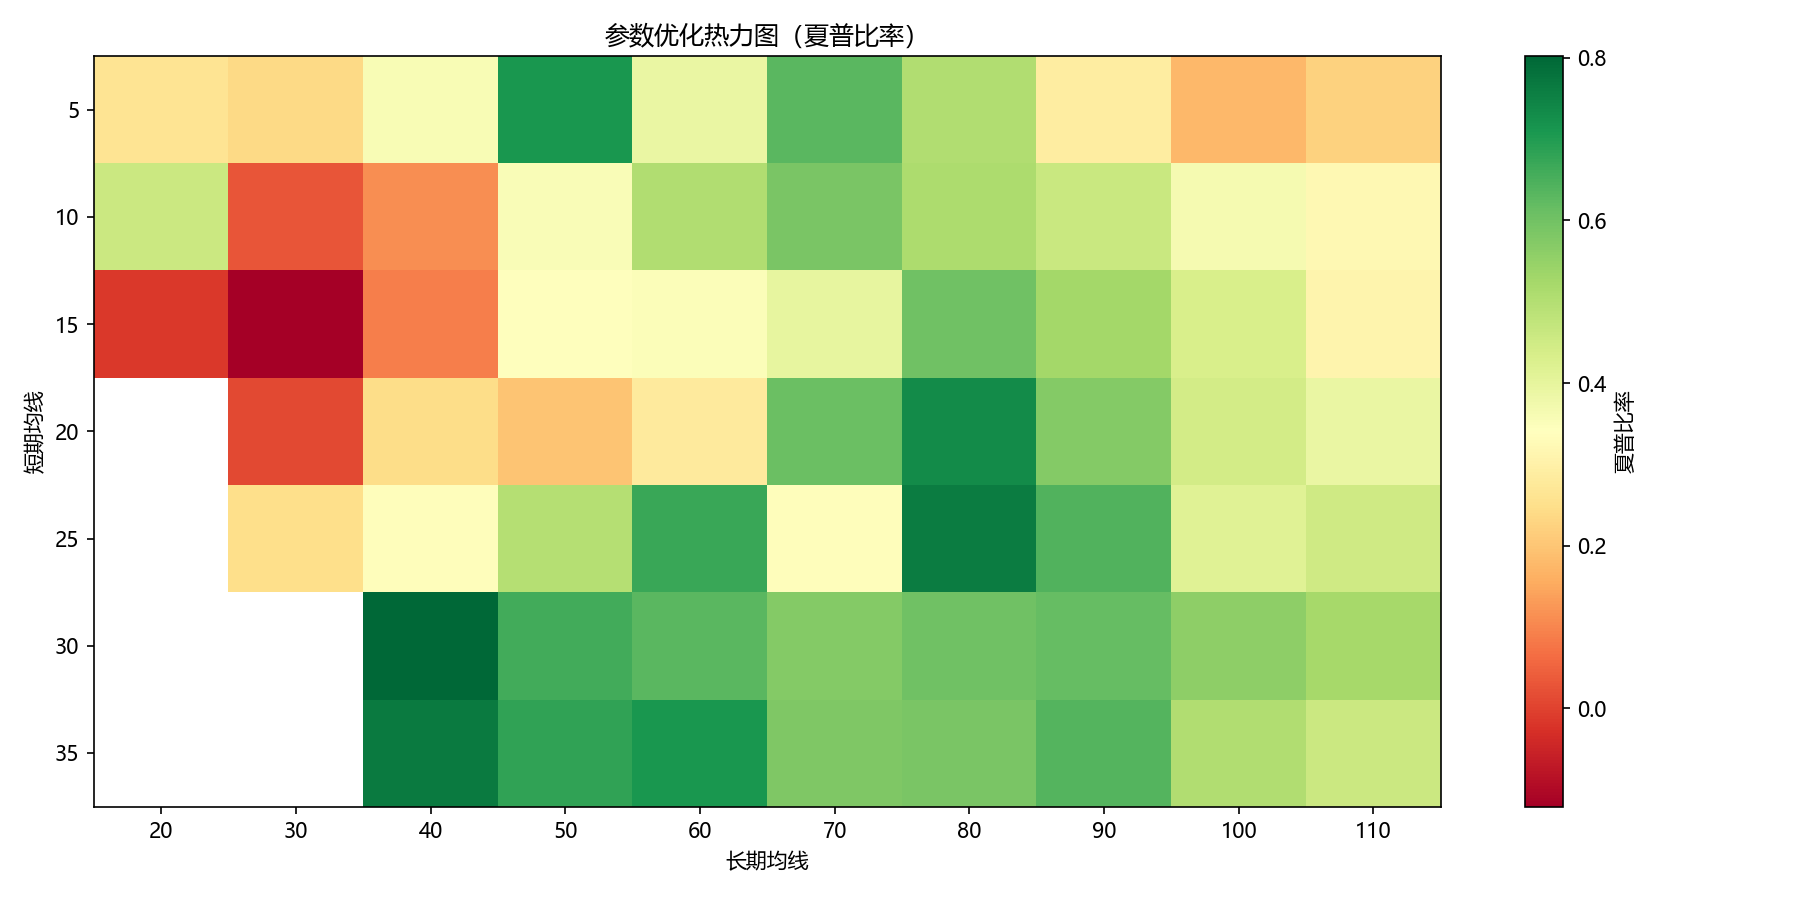
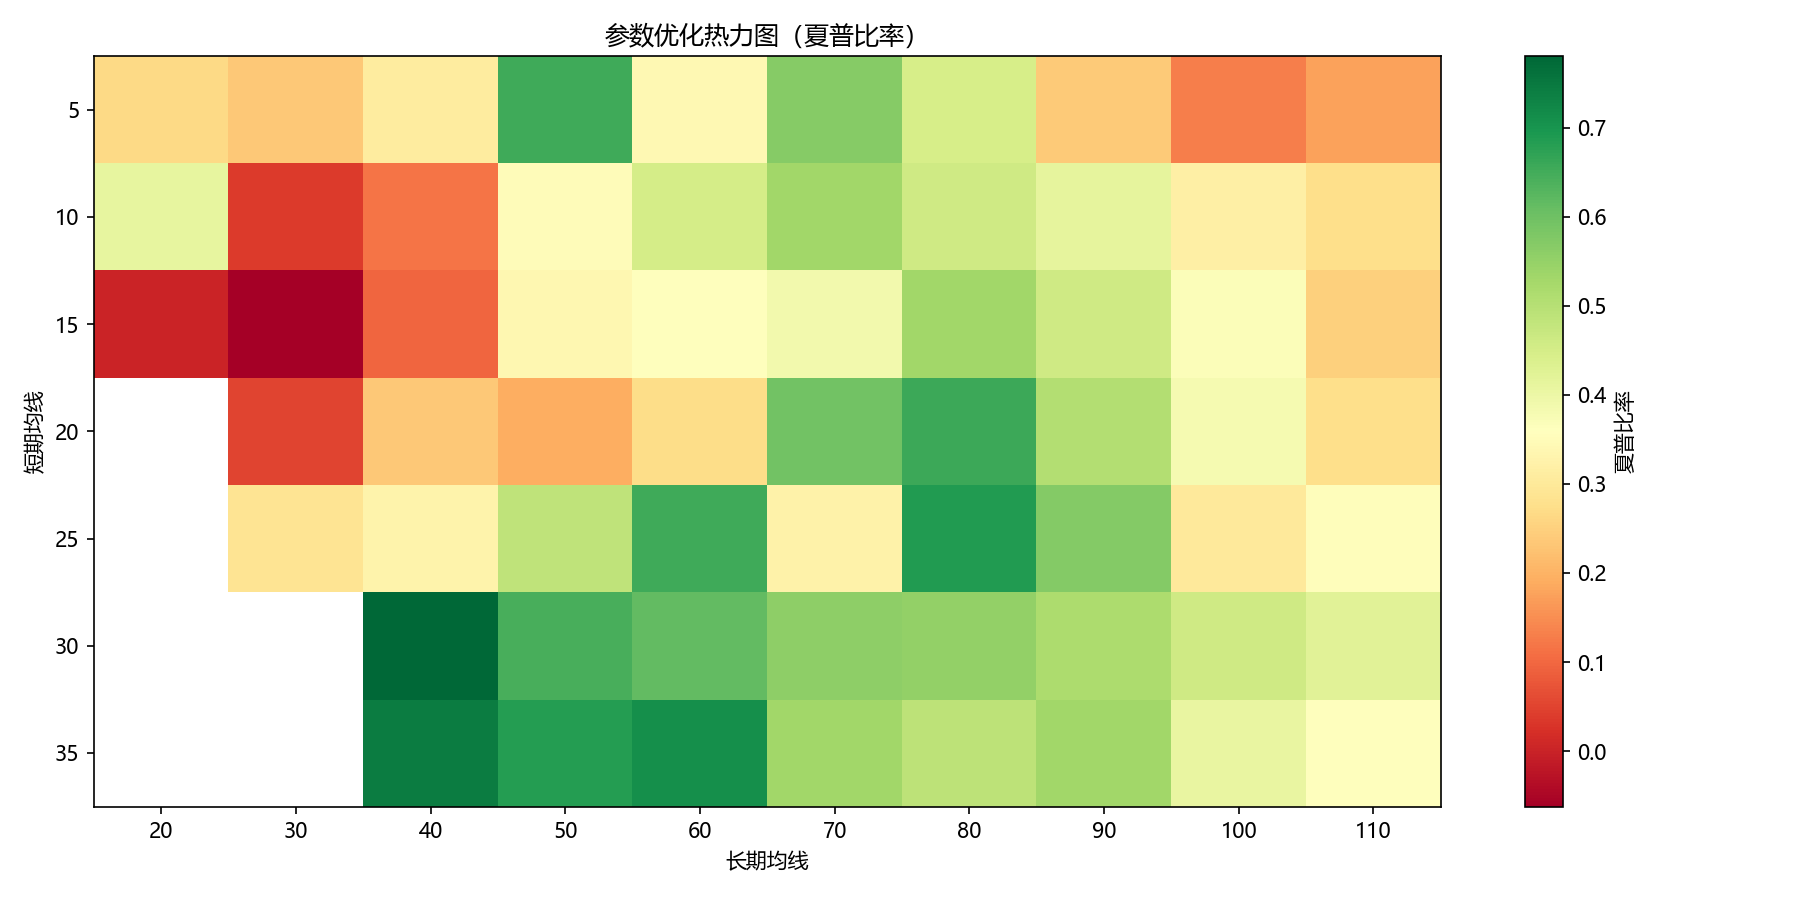
fix: correct position calculation and equity tracking in backtest scripts
- Use forward fill for position signals to maintain holdings between trades
- Fix equity curve calculation to include floating P&L during open positions
- Add matplotlib Agg backend for headless environments
- Configure yfinance cache location to avoid permission issues

diff --git a/step5_risk.py b/step5_risk.py
@@ -47,35 +47,41 @@ def backtest_with_risk(df):
         buy_signal  = row["SMA_30"] > row["SMA_40"] and row["RSI"] < 70
         sell_signal = row["SMA_30"] < row["SMA_40"] or row["RSI"] > 75
 
-        # 持仓中检查止损/止盈
+        # 计算当前包含浮动盈亏的净值
+        current_equity = capital
         if position == 1:
             pnl = (price - entry_price) / entry_price
+            current_equity = capital * (1 + pnl * position_size)
+
+        # 持仓中检查止损/止盈
+        if position == 1:
             if pnl <= -STOP_LOSS:
                 position = 0
-                capital *= (1 + pnl * position_size)
+                capital = current_equity
                 trades.append({"date": date, "type": "止损", "pnl": pnl})
             elif pnl >= TAKE_PROFIT:
                 position = 0
-                capital *= (1 + pnl * position_size)
+                capital = current_equity
                 trades.append({"date": date, "type": "止盈", "pnl": pnl})
             elif sell_signal:
                 position = 0
-                capital *= (1 + pnl * position_size)
+                capital = current_equity
                 trades.append({"date": date, "type": "信号平仓", "pnl": pnl})
 
         # 组合最大回撤保护
-        peak = max(peak, capital)
-        portfolio_dd = (capital - peak) / peak
+        peak = max(peak, current_equity)
+        portfolio_dd = (current_equity - peak) / peak
         if portfolio_dd <= -MAX_DRAWDOWN and position == 1:
             position = 0
-            trades.append({"date": date, "type": "回撤保护", "pnl": portfolio_dd})
+            capital = current_equity
+            trades.append({"date": date, "type": "回撤保护", "pnl": pnl})
 
         # 开仓
         if position == 0 and buy_signal:
             position   = 1
             entry_price= price
 
-        equity_curve.append(capital)
+        equity_curve.append(current_equity if position == 1 else capital)
 
     return pd.Series(equity_curve, index=df.index), pd.DataFrame(trades)
 

diff --git a/step4_optimize.py b/step4_optimize.py
@@ -1,10 +1,12 @@
 import yfinance as yf
+yf.set_tz_cache_location(".yf_cache")
 import pandas as pd
 import numpy as np
 from ta.trend import SMAIndicator, MACD
 from ta.momentum import RSIIndicator
-import matplotlib.pyplot as plt
 import matplotlib
+matplotlib.use('Agg')
+import matplotlib.pyplot as plt
 matplotlib.rcParams['font.family'] = 'Microsoft YaHei'
 
 # 获取数据
@@ -23,10 +25,13 @@ def backtest(close, short, long, rsi_buy=70, rsi_sell=75):
 
     df["Signal"] = 0
     df.loc[(df["SMA_short"] > df["SMA_long"]) & (df["RSI"] < rsi_buy),  "Signal"] = 1
-    df.loc[(df["SMA_short"] < df["SMA_long"]) | (df["RSI"] > rsi_sell), "Signal"] = 0
+    df.loc[(df["SMA_short"] < df["SMA_long"]) | (df["RSI"] > rsi_sell), "Signal"] = -1
+    
+    # 向前填充持仓状态，1为多头，-1为空仓信号（替换为0）
+    df["Position"] = df["Signal"].replace(0, np.nan).ffill().fillna(0).replace(-1, 0)
 
     df["Return"]   = df["Close"].pct_change()
-    df["Strategy"] = df["Signal"].shift(1) * df["Return"]
+    df["Strategy"] = df["Position"].shift(1) * df["Return"]
 
     cum = (1 + df["Strategy"]).cumprod()
     total_return = cum.iloc[-1] - 1

diff --git a/step3_backtest.py b/step3_backtest.py
@@ -1,11 +1,13 @@
 import yfinance as yf
+yf.set_tz_cache_location(".yf_cache")
 import pandas as pd
 import numpy as np
 from ta.trend import SMAIndicator, MACD
 from ta.momentum import RSIIndicator
 from ta.volatility import BollingerBands
-import matplotlib.pyplot as plt
 import matplotlib
+matplotlib.use('Agg')
+import matplotlib.pyplot as plt
 matplotlib.rcParams['font.family'] = 'Microsoft YaHei'
 
 # 获取数据
@@ -44,7 +46,8 @@ def generate_signal(row):
     return 0
 
 df["Signal"] = df.apply(generate_signal, axis=1)
-df["Position"] = df["Signal"].replace(-1, 0)  # 只做多，不做空
+# 将0替换为NaN以便向前填充，然后将-1（卖出信号）替换为0（空仓）
+df["Position"] = df["Signal"].replace(0, np.nan).ffill().fillna(0).replace(-1, 0)
 
 # 计算收益
 df["Return"]   = df["Close"].pct_change()
